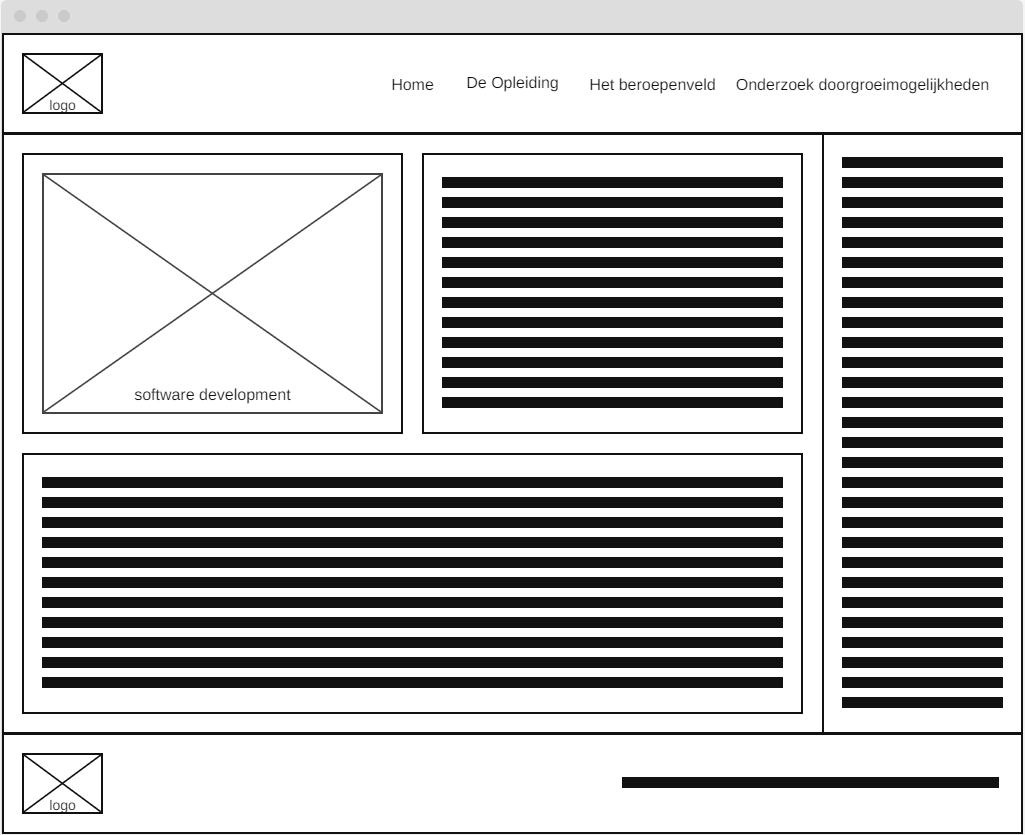
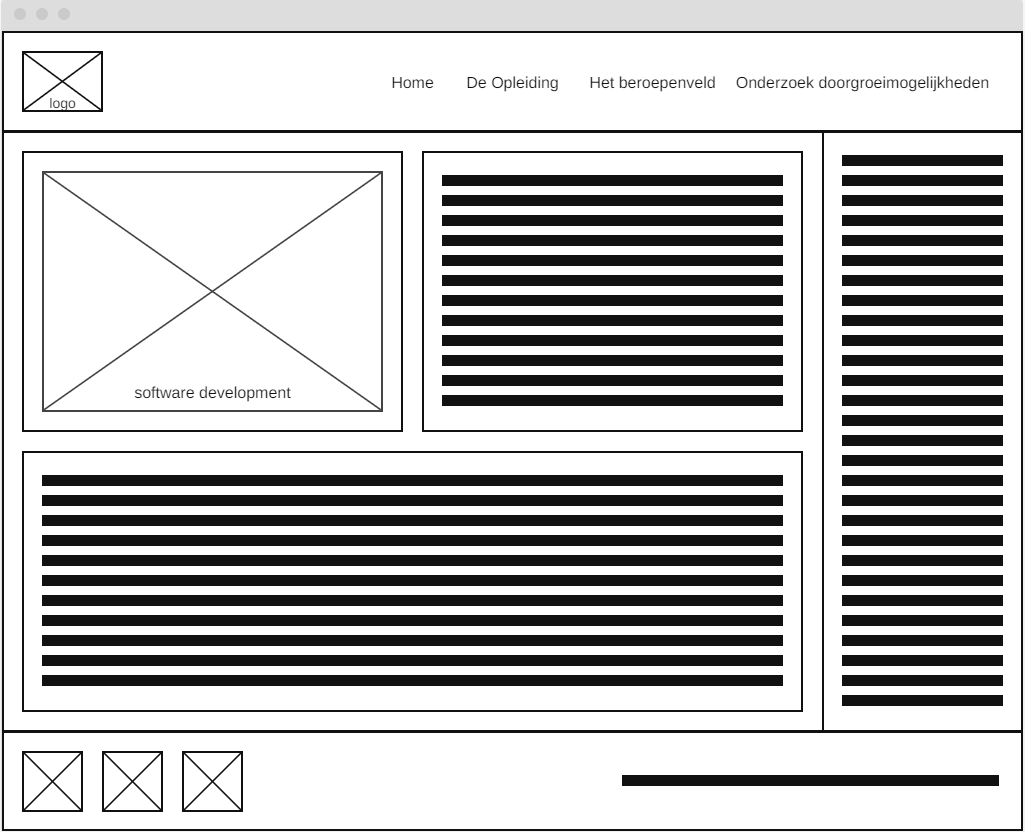
update

diff --git a/De eerste pagina’s/module2.html b/De eerste pagina’s/module2.html
@@ -5,7 +5,7 @@
     <meta charset="UTF-8">
     <meta name="viewport" content="width=device-width, initial-scale=1.0">
     <meta http-equiv="X-UA-Compatible" content="ie=edge">
-    <meta name="description" content="dit is Het Onderzoek doorgroeimogelijkheden pagina van het project">
+    <meta name="description" content="dit is Het Nederlands ontwikkeling pagina van het project">
     <meta name="keywords" content="project">
     <link rel="stylesheet" href="css/style.css">
     <meta name="author" content="Elroy">
@@ -24,10 +24,35 @@
         </nav>
     </header>
     <main class="module2">
-        <section class="module2_1"></section>
-        <section class="module2_2"></section>
+        <section class="module2_1">
+            <article class="module2_3_1_1">
+                <h2>Nederlands ontwikkeling</h2>
+                <h3>Algemeen</h3>
+                <p>In deze leereenheid werk je aan het verbeteren van je taalniveau tot niveau 3F. Dit houdt in dat je
+                    gaat werken aan de beheersing van de basisvaardigheden van de Nederlandse taal. Deze
+                    basisvaardigheden zijn onderverdeeld in vier onderdelen, namelijk: leesvaardigheid, mondelinge
+                    taalvaardigheid (spreken, gesprekken voeren, luisteren), schrijfvaardigheid en woordenschat.</p>
+            </article>
+        </section>
+        <section class="module2_2">
+            <article class="module2_3_1_1">
+                <h3>Spreken, lezen en luisteren</h3>
+                <p>Tijdens deze leereenheid leer je hoe je mondelinge taalvaardigheid kunt verbeteren door bijvoorbeeld
+                    te oefenen met het voeren van gesprekken en luisteren naar anderen. Ook leer je hoe je zakelijke
+                    teksten kunt begrijpen door deze goed te lezen en te analyseren.</p>
+            </article>
+        </section>
         <section class="module2_3">
-            <article class="module2_3_1"></article>
+            <article class="module2_3_1">
+                <article class="module2_3_1_1">
+                    <h3>Schrijven en woordenschat</h3>
+                    <p>Daarnaast ga je aan de slag met het verbeteren van je schrijfvaardigheid, bijvoorbeeld door het
+                        schrijven van verschillende soorten teksten, zoals brieven, verslagen en samenvattingen. Tot
+                        slot leer je hoe je je woordenschat kunt vergroten door actief nieuwe woorden te leren en deze
+                        te gebruiken in verschillende contexten.</p>
+                </article>
+
+            </article>
             <article class="module2_3_2"><img src="image/software.png" alt="software development"
                     class="module2_3_2_img"></article>
         </section>

diff --git a/De eerste pagina’s/css/style.css b/De eerste pagina’s/css/style.css
@@ -38,18 +38,18 @@ main {
     grid-row: 1/9;
     grid-column: 1/5;
     display: flex;
-    justify-content: center;
+    justify-content: space-around;
     align-items: center;
-    border: 1px solid black;
+    margin: 2% 2%;
 }
 
 .module2_2 {
     grid-row: 1/9;
     grid-column: 5/9;
     display: flex;
-    justify-content: center;
+    justify-content: space-around;
     align-items: center;
-    border: 1px solid black;
+    margin: 2% 2%;
 }
 
 .module2_3 {
@@ -58,16 +58,20 @@ main {
     display: grid;
     grid-template-rows: repeat(2, 1fr);
     grid-template-columns: 1fr;
-    border: 1px solid black;
 }
 
 .module2_3_1 {
     grid-row: 1;
     grid-column: 1;
     display: flex;
-    justify-content: center;
+    justify-content: space-around;
     align-items: center;
-    border: 1px solid black;
+    margin: 2% 2%;
+}
+
+.module2_3_1_1 {
+    margin: 0% 0%;
+    text-align: center;
 }
 
 .module2_3_2 {
@@ -76,11 +80,13 @@ main {
     display: flex;
     justify-content: space-around;
     align-items: center;
-    border: 1px solid black;
+    margin: 2% 2%;
 }
-.module2_3_2_img{
+
+.module2_3_2_img {
     width: 60%;
 }
+
 .maininfo {
     grid-row: 1/9;
     grid-column: 1/10;
@@ -92,33 +98,42 @@ main {
 .maininfoleft {
     grid-column: 1;
     grid-row: 1;
+    display: flex;
+    justify-content: space-around;
+    align-items: center;
+    margin: 2% 2%;
+}
+
+.maininfoleftimg {
+    width: 50%;
 }
 
 .maininforight {
     grid-column: 2;
     grid-row: 1;
+    display: flex;
+    justify-content: space-around;
+    align-items: center;
+    margin: 2% 2%;
 }
 
 .maininfounder {
     grid-column: 1/3;
     grid-row: 2;
+    display: flex;
+    justify-content: space-around;
+    align-items: center;
+    margin: 1% 1% 2%;
 }
 
 .sidebarright {
     grid-row: 1/9;
     grid-column: 10/13;
-    display: grid;
-    grid-template-columns: repeat(6, 1fr);
-    grid-template-rows: repeat(8, 1fr);
-}
-
-.sidebarrightinfo {
-    grid-row: 2/8;
-    grid-column: 2/6;
     display: flex;
     align-items: center;
-    justify-content: center;
+    justify-content: space-around;
     text-align: center;
+    margin: 4% 4%;
 }
 
 .onderzoek {

diff --git a/De eerste pagina’s/module1.html b/De eerste pagina’s/module1.html
@@ -26,16 +26,17 @@
     <main class="module1">
         <section class="maininfo">
             <article class="maininfoleft">
+                <img src="image/software.png" alt="software development" class="maininfoleftimg">
             </article>
             <article class="maininforight">
+                <p></p>
             </article>
             <article class="maininfounder">
+                <p></p>
             </article>
         </section>
         <section class="sidebarright">
-            <article class="sidebarrightinfo">
-                <p></p>
-            </article>
+            <p></p>
         </section>
     </main>
     <footer class="footerback">
